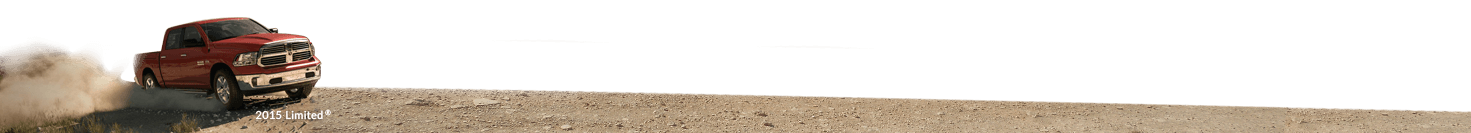
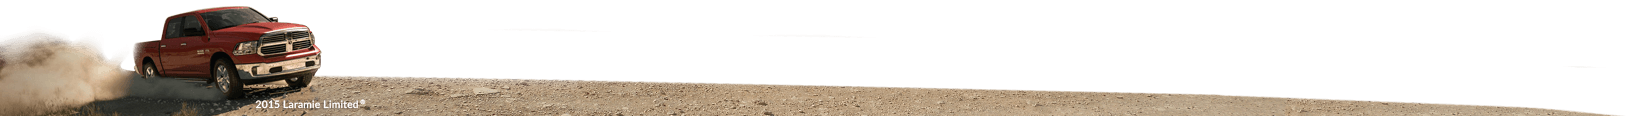
deer zone, sweeps deleted

diff --git a/wp-content/themes/imo-mags-parent/css/microsite-css/rigged-ready-default.css b/wp-content/themes/imo-mags-parent/css/microsite-css/rigged-ready-default.css
@@ -506,7 +506,7 @@ body h1, body h2, body h3, body h4, body h5 {
 .m-home-wrap {
 	width: 100%;
 	position: relative;
-	margin-bottom: 532px;
+	margin-bottom: 280px;
 }
 .m-regn {
 	width: 100%;
@@ -842,10 +842,12 @@ filter: progid:DXImageTransform.Microsoft.gradient( startColorstr='#001e1e1e', e
 /* .m-truck {background: url("/wp-content/themes/infisherman/images/rigged-and-ready/truck-ram.png") no-repeat left bottom / 1480px;} */
 
 /* Banners *******************/
+/*
 .m-truck-container:first-child .m-truck {
 	background: url("/wp-content/themes/infisherman/images/rigged-and-ready/sweeps-banner.png") no-repeat left bottom / 1280px;
 }
-.m-truck-container:last-child .m-truck {
+*/
+.m-truck-container .m-truck {
 	background: url("/wp-content/themes/infisherman/images/rigged-and-ready/truck-ram.png") no-repeat left bottom / 1280px;
 }
 
@@ -880,16 +882,13 @@ filter: progid:DXImageTransform.Microsoft.gradient( startColorstr='#001e1e1e', e
 /* Header *******************/
 
 /* Home Page *******************/
-.m-home-wrap {margin-bottom: 300px;}
+.m-home-wrap {margin-bottom: 150px;}
 .m-direction {width: 106px;height:106px;}
 .m-triangle {background: url("/wp-content/themes/infisherman/images/rigged-and-ready/sprite.png") -35px -172px no-repeat;background-size: 192px;}
 .m-direction span {font: 700 16px/106px "Lato", sans-serif;}
 
 /* Banners *******************/
-.m-banners {
-	height: 274px;
-	bottom: -282px;
-}
+.m-banners {height: 133px;bottom: -140px;}
 .m-truck-container {height: 150px;}
 .m-banners-region, .m-banners-single {bottom: auto;}
 .m-truck {/* background-size: 1480px; */text-align: right;padding: 0 30px;}
@@ -1036,7 +1035,7 @@ filter: progid:DXImageTransform.Microsoft.gradient( startColorstr='#001e1e1e', e
 .m-nav-erea { padding: 0 4%;}
 
 /* Home Page *******************/
-.m-home-wrap {margin-bottom: 280px;height: 66%;}
+.m-home-wrap {margin-bottom: 130px;height: 66%;}
 .m-regn {height: 100%;}
 .m-home-wrap .m-regn > li {width: 20%;height: 100%;padding-top: 0;background-size: cover;}
 .m-regn > li > a {-webkit-transition: all 0.4s ease;transition: all 0.4s ease;}
@@ -1053,7 +1052,7 @@ filter: progid:DXImageTransform.Microsoft.gradient( startColorstr='#001e1e1e', e
 
 /* Banners *******************/
 .m-truck-container {position: relative;height: 133px;bottom: auto;}
-.m-banners {bottom: -274px;}
+.m-banners {bottom: -133px;}
 .m-banners-region {bottom: auto;}
 /*
 .m-truck {background-size: 1640px;text-align: center;}

diff --git a/wp-content/themes/imo-mags-parent/css/microsite-css/gameandfish/microsite-deer-zone.css b/wp-content/themes/imo-mags-parent/css/microsite-css/gameandfish/microsite-deer-zone.css
@@ -176,11 +176,13 @@ a:hover {
 .m-logo {top: 11px;}
 
 /* Banners *******************/
+/*
 .m-truck-container:first-child .m-truck {
 	background: url("/wp-content/themes/gameandfish/images/deer-zone/sweeps-banner.png") no-repeat left bottom / 1280px;
 }
-.m-truck-container:last-child .m-truck {
-	background: url("/wp-content/themes/gameandfish/images/deer-zone/truck-ram.png") no-repeat left bottom / 1280px;
+*/
+.m-truck-container .m-truck {
+	background: url("/wp-content/themes/gameandfish/images/deer-zone/truck-ram.png") no-repeat left bottom / 1550px;
 }
 
 }/* end of media */
@@ -268,6 +270,11 @@ a:hover {
 .collage-1 {top: 171px;}
 .sweeps-dark-bar {bottom: 102px;padding: 10px 45% 10px 20%;}
 
+.m-truck-container {width: 100%;}
+.m-truck {text-align: center;}
+.m-truck-title {top:4px;left:0; right: 0; margin: 0 auto;}
+.m-truck-title h3 {display: inline-block;font-family: "Lato", sans-serif;}
+.m-truck > p {margin: 45px auto 13px;}
 
 }/* end of media */
 

diff --git a/wp-content/themes/imo-mags-parent/css/microsite-css/gameandfish/BTF-deer-zone.css b/wp-content/themes/imo-mags-parent/css/microsite-css/gameandfish/BTF-deer-zone.css
@@ -87,8 +87,8 @@
 .m-banners {
 	position: absolute;
 	width: 100%;
-	height: 540px;
-	bottom: -548px;
+	height: 280px;
+	bottom: -295px;
 }
 .m-truck-container {
 	overflow: hidden;
@@ -119,10 +119,12 @@
 	width: 100%;
 	text-align: center;
 }
+/*
 .m-truck-container:first-child .m-truck {
 	background: url("/wp-content/themes/gameandfish/images/deer-zone/sweeps-banner-mobile.png") no-repeat left bottom / 480px;
 }
-.m-truck-container:last-child .m-truck {
+*/
+.m-truck-container .m-truck {
 	background: url("/wp-content/themes/gameandfish/images/deer-zone/truck-ram-mobile.png") no-repeat left bottom / 480px;
 }
 .m-truck-title {

diff --git a/wp-content/themes/imo-mags-parent/content/microsite-template-parts/deer-zone/sweeps-banner.php b/wp-content/themes/imo-mags-parent/content/microsite-template-parts/deer-zone/sweeps-banner.php
@@ -1,4 +1,5 @@
 <div class="m-banners <?php if ( !is_category('deer-zone')) { echo 'clearfix m-banners-region';}?>">
+<!--
 	<div class="m-truck-container">
 		<div class="m-truck">
 			<div class="m-truck-title clearfix">
@@ -13,7 +14,8 @@
 				<span class="m-text-over">ENTER TO WIN!</span>
 			</a>
 		</div>
-	</div><!-- .m-truck-container -->
+	</div>
+--><!-- .m-truck-container -->
 	<div class="m-truck-container">
 		<div class="m-truck">
 			<div class="m-truck-title clearfix">
